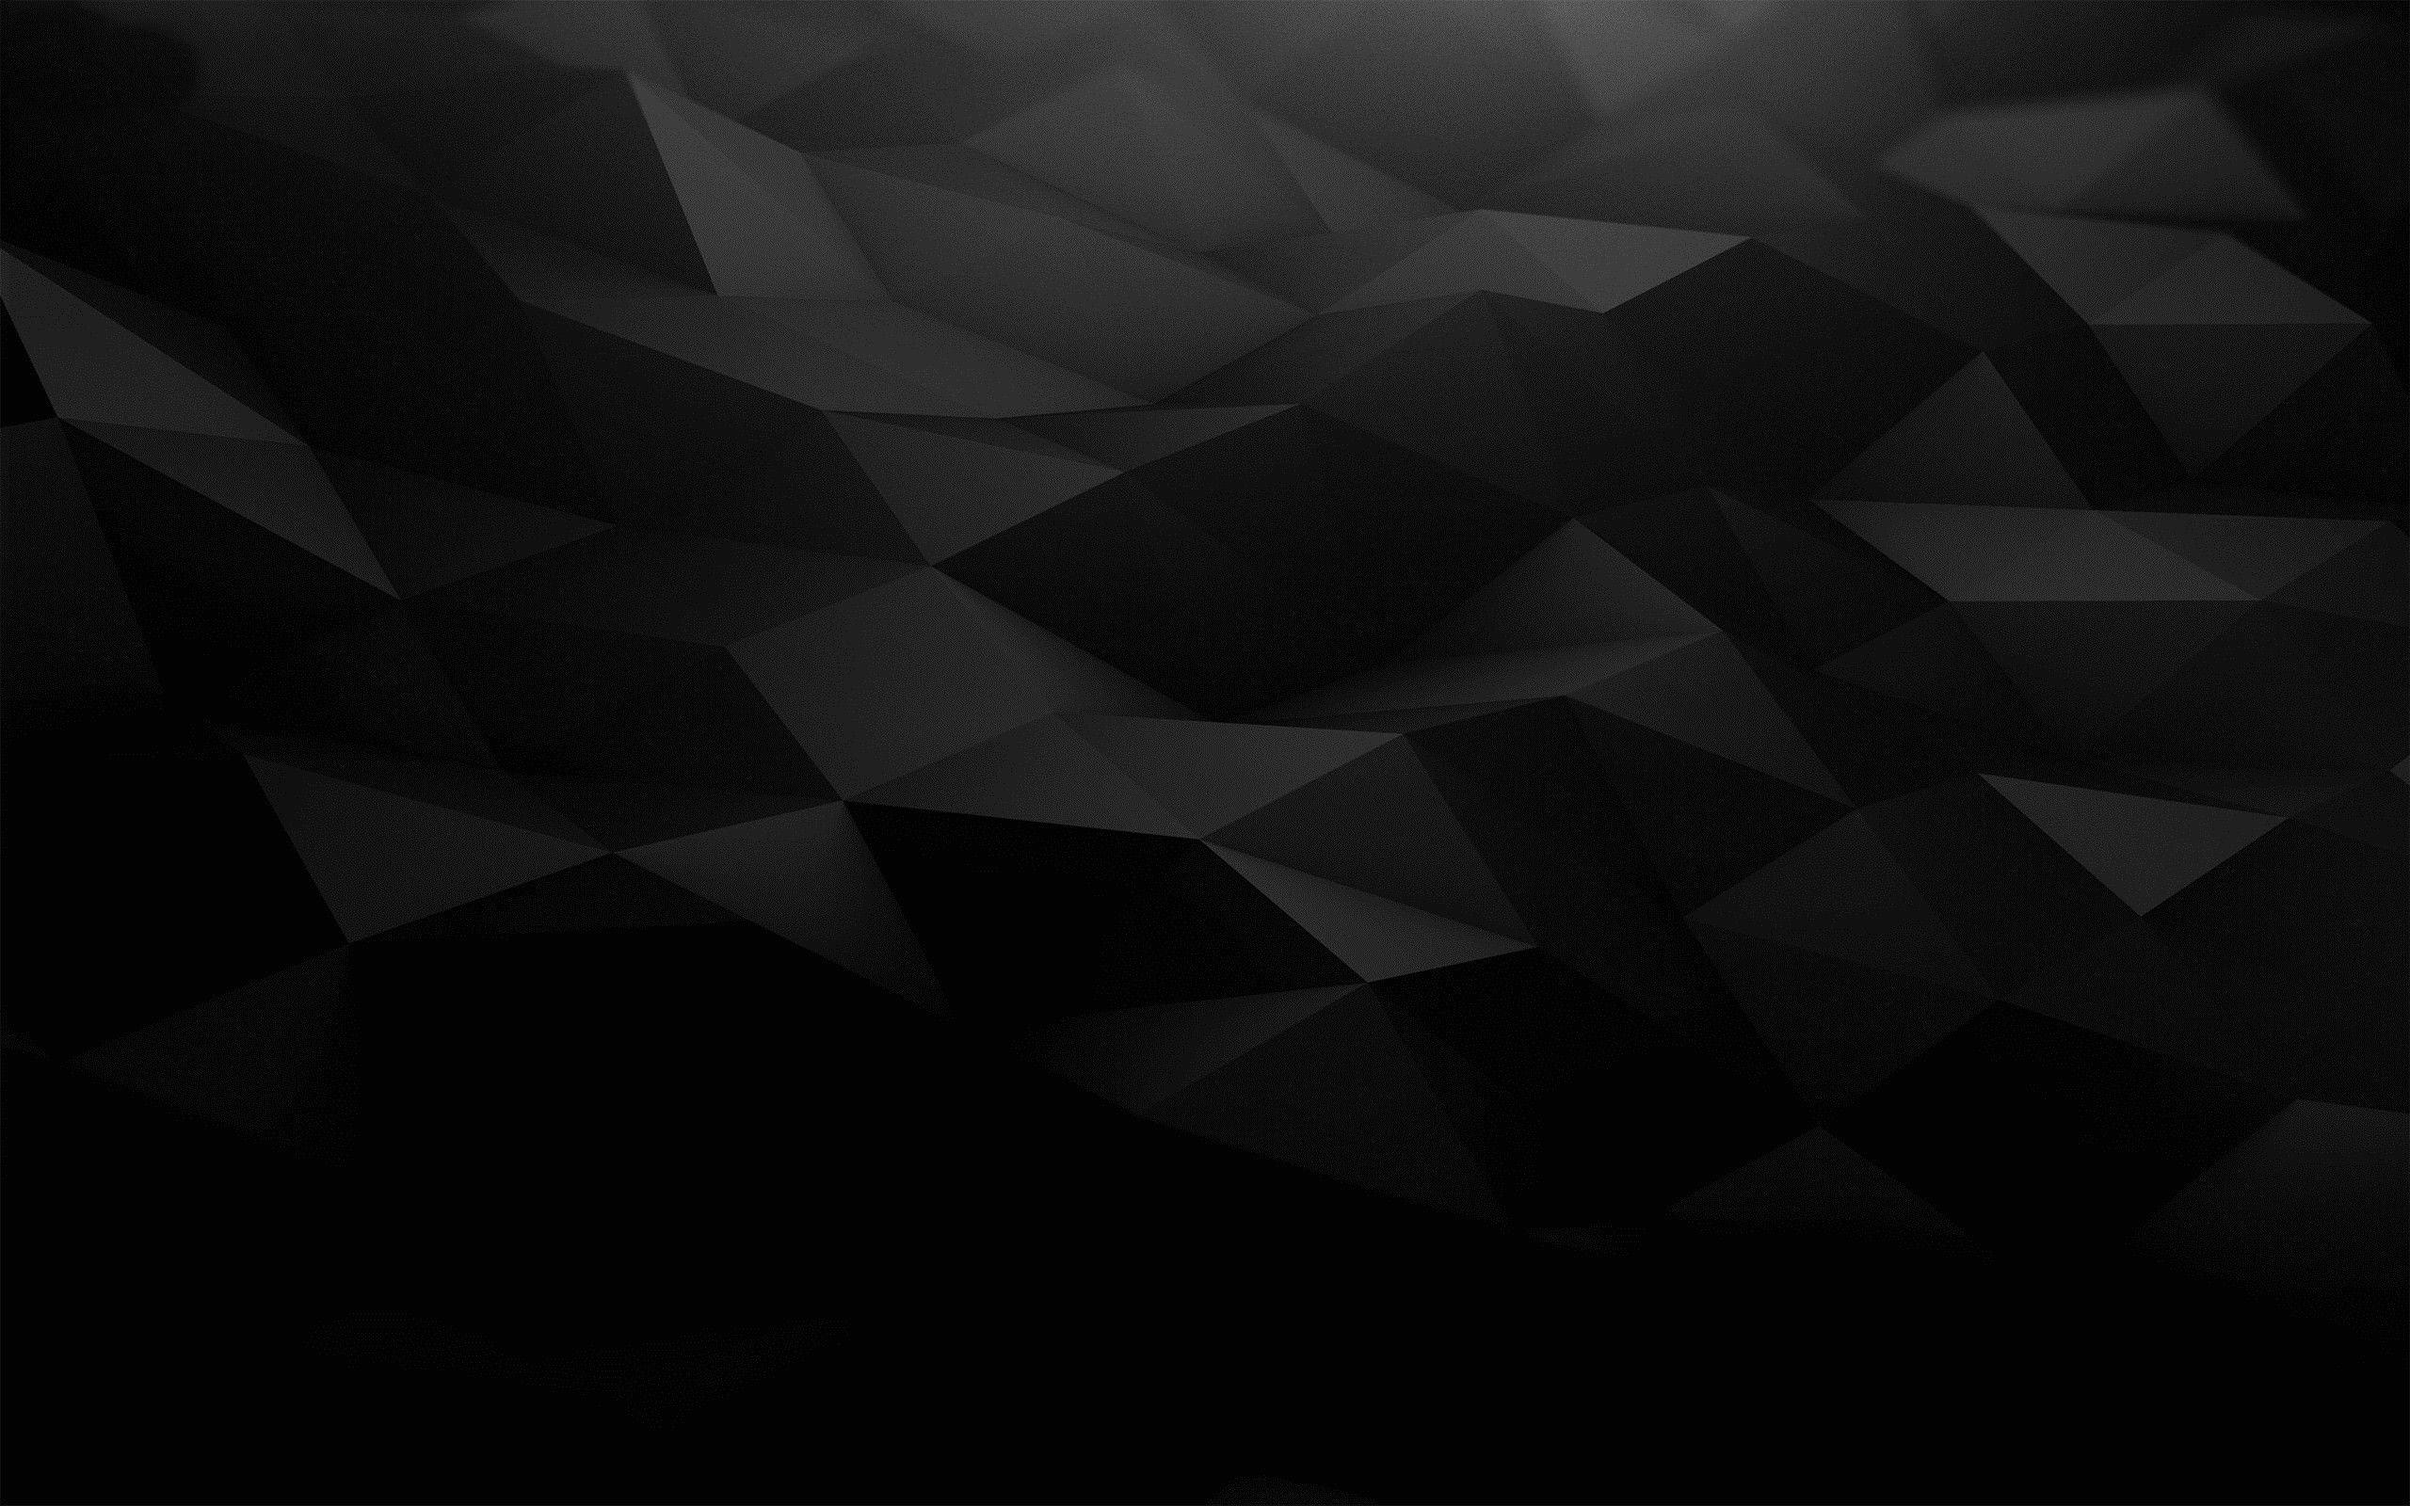
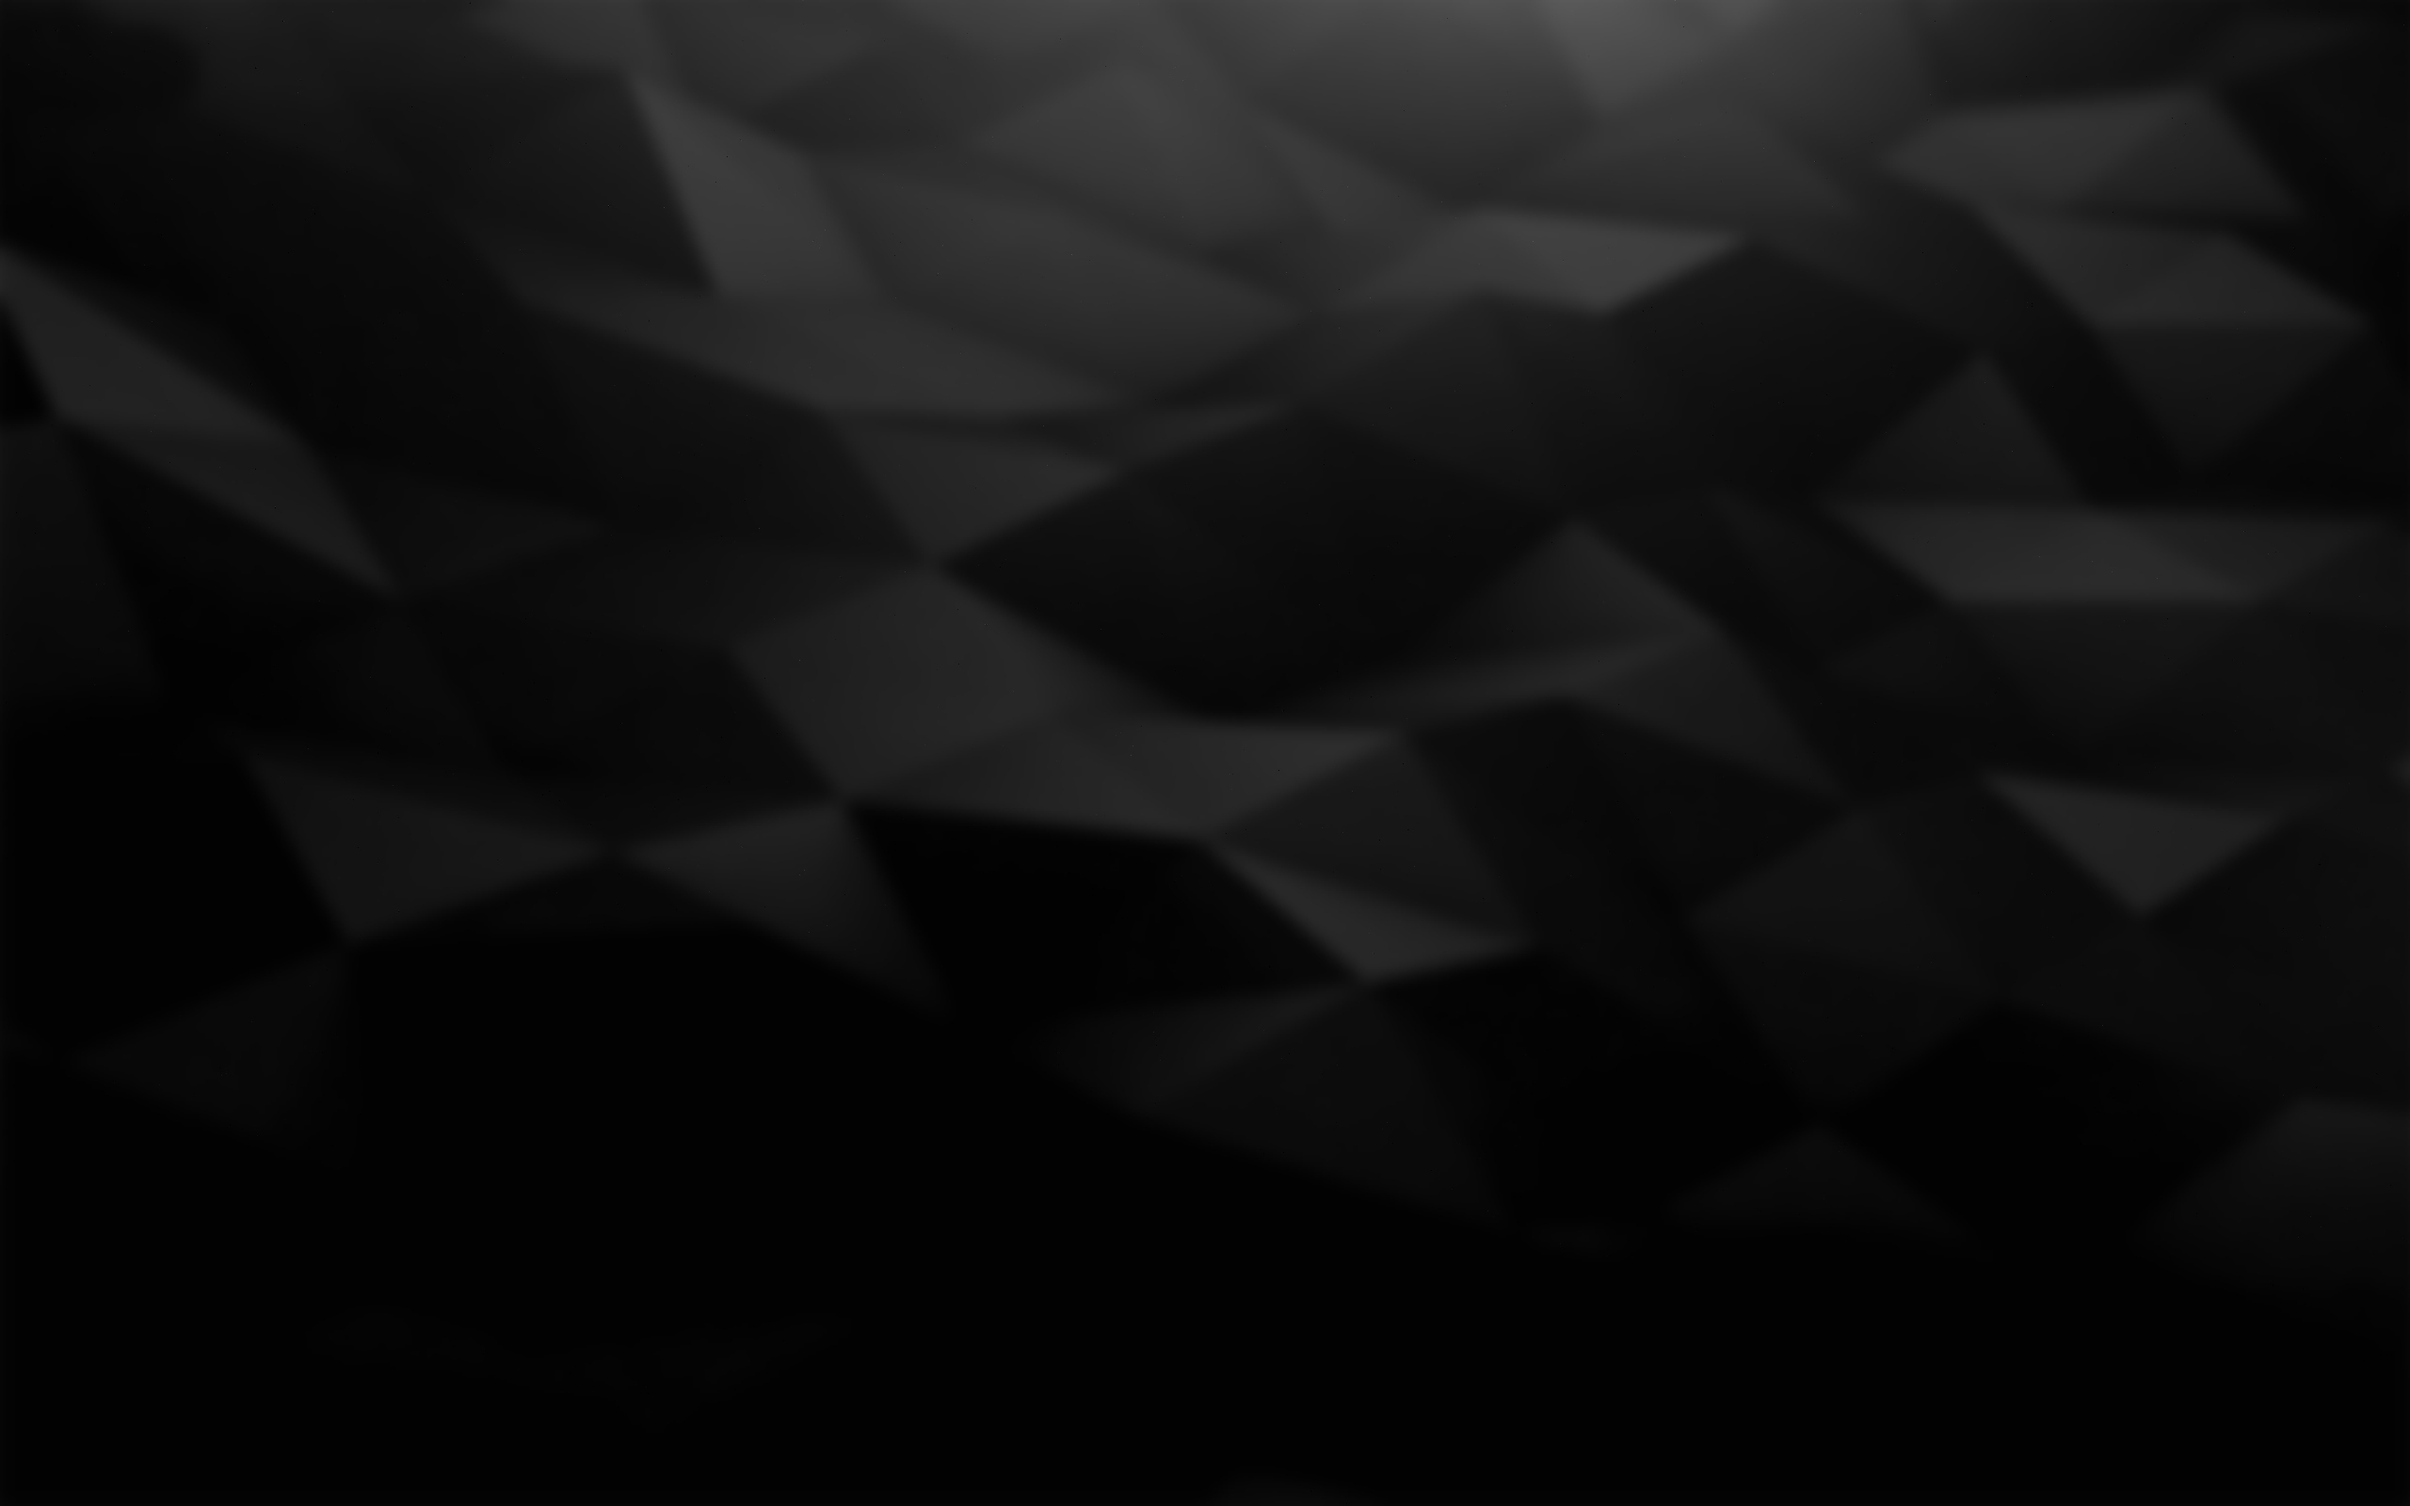
bg blur

diff --git a/index2.html b/index2.html
@@ -26,8 +26,6 @@
             width: 100%;
             background-image: url(landing_bg.jpg);
             background-size: cover;
-            filter: blur(5px);
-            -webkit-filter: blur(5px);
         }
 
         .container {
